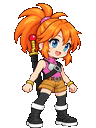
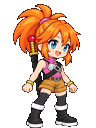
art(player): stabilize idle and run proportions and redraw blink

Changed region(s): [[0.125, 0.0, 0.8438, 0.4062], [0.2188, 0.1875, 0.25, 0.2188]]

diff --git a/tools/art/build_player_movement_atlas.py b/tools/art/build_player_movement_atlas.py
@@ -8,6 +8,7 @@ from pathlib import Path
 import json
 from PIL import Image, ImageDraw
 from pack_atlas import pack
+from build_player_idle_run_revision import build as build_idle_run
 
 ROOT = Path(__file__).resolve().parents[2]
 PREVIEW = ROOT / 'art/previews/phase_b'
@@ -57,15 +58,16 @@ def anchor(source, size, scale=1.0):
 
 
 def build():
+    build_idle_run()
     DEST.mkdir(parents=True, exist_ok=True)
     REVIEW.mkdir(parents=True, exist_ok=True)
     result = {}
-    folders = {'idle':'2026-10-24_aclaire_idle', 'run':'2026-10-24_aclaire_run_v4_redraw',
+    folders = {'idle':'2026-10-24_idle_run_revision/idle', 'run':'2026-10-24_idle_run_revision/run',
                'jump_up':'2026-10-24_aclaire_jump_up_v4_study'}
     for anim, folder in folders.items():
         for i, path in enumerate(sorted((PREVIEW/folder).glob('*.png'))):
             source = Image.open(path).convert('RGBA')
-            if anim == 'idle':
+            if anim in ('idle', 'run'):
                 frame = indexed(source)
             else:
                 frame = anchor(source, (128 if anim == 'run' else 96, 128), .94 if anim == 'jump_up' else 1)
@@ -83,6 +85,23 @@ def build():
                          'opaque_colors':len({p[:3] for p in frame.get_flattened_data() if p[3]}),
                          'sole_row':frame.getbbox()[3]-1}
     assert len(result) == 18
+    revision = PREVIEW / '2026-10-24_idle_run_revision'
+    blink_board = Image.new('RGBA', (576, 292), '#2b2440')
+    pen = ImageDraw.Draw(blink_board)
+    blink_samples = [result['idle_000'], Image.open(PREVIEW/'2026-10-24_aclaire_idle/04.png').convert('RGBA'), result['idle_003']]
+    for i, (sample, label) in enumerate(zip(blink_samples, ('V4 open', 'Previous blink', 'Revised blink'))):
+        blink_board.alpha_composite(sample.resize((192,256), Image.Resampling.NEAREST), (i*192,8))
+        pen.text((i*192+32,276),label,fill='#f2efe6')
+    blink_board.save(revision/'blink_comparison.png')
+    transition = []
+    for anim, repeats in [('idle',2),('run',3),('idle',2)]:
+        for _ in range(repeats):
+            for i in range(ANIMS[anim][0]):
+                frame = result[f'{anim}_{i:03}']
+                canvas = Image.new('RGBA', (128,128), '#2b2440')
+                canvas.alpha_composite(frame, ((128-frame.width)//2,0))
+                transition.append(canvas.resize((256,256),Image.Resampling.NEAREST))
+    transition[0].save(revision/'idle_run_transition.png',save_all=True,append_images=transition[1:],duration=125,loop=0,disposal=2,blend=0)
     for anim, (count, fps, repeat) in ANIMS.items():
         frames = [result[f'{anim}_{i:03}'] for i in range(count)]
         frames[0].save(REVIEW/f'{anim}_motion.png',save_all=True,append_images=frames[1:],

diff --git a/tools/art/build_player_idle_run_revision.py b/tools/art/build_player_idle_run_revision.py
@@ -1,0 +1,53 @@
+"""Pixel-preserving V4 head rig and calm, planted breathing revision.
+
+Original approved studies remain untouched. Reuse the approved head at 1:1
+instead of fitting the entire run silhouette separately for every pose.
+"""
+from pathlib import Path
+from PIL import Image, ImageDraw
+
+ROOT = Path(__file__).resolve().parents[2]
+OUT = ROOT / 'art/previews/phase_b/2026-10-24_idle_run_revision'
+SEED = ROOT / 'art/previews/phase_a/2026-10-23_aclaire_seed_v4_256color_density2.png'
+
+
+def build():
+    seed = Image.open(SEED).convert('RGBA')
+    blink_source = Image.open(ROOT / 'art/concept/2026-10-24_aclaire_blink_revision_source.png').convert('RGBA')
+    bounds = blink_source.getchannel('A').point(lambda a: 255 if a >= 128 else 0).getbbox()
+    aligned_blink = Image.new('RGBA', seed.size)
+    aligned_blink.alpha_composite(blink_source.crop(bounds).resize((68, 124), Image.Resampling.NEAREST), (13, 4))
+    # Bring across only the generated eyelids. Head, eyebrows, mouth and hair
+    # retain the approved seed pixels; no whole-face redraw drift.
+    eye_mask = Image.new('L', seed.size)
+    draw = ImageDraw.Draw(eye_mask)
+    draw.polygon([(47, 41), (54, 40), (58, 43), (58, 50), (54, 52), (47, 51), (46, 46)], fill=255)
+    draw.polygon([(62, 44), (67, 43), (70, 46), (70, 52), (66, 54), (61, 52), (60, 48)], fill=255)
+    blink_seed = seed.copy()
+    blink_seed.paste(aligned_blink, (0, 0), eye_mask)
+    for anim in ('idle', 'run'):
+        (OUT / anim).mkdir(parents=True, exist_ok=True)
+    # One smooth inhale/exhale cycle: upper body moves together, no x sway,
+    # no isolated head deformation, and the feet never move.
+    for i, offset in enumerate((0, 0, 1, 1, 1, 0)):
+        pose = blink_seed if i == 3 else seed
+        frame = pose.copy()
+        if offset:
+            frame = Image.new('RGBA', seed.size)
+            frame.paste(pose.crop((0, 0, 96, 90)), (0, 1))
+            frame.paste(pose.crop((0, 91, 96, 128)), (0, 91))
+        frame.save(OUT / 'idle' / f'{i+1:02}.png')
+    head = seed.crop((0, 0, 96, 62))
+    for i in range(4):
+        original = Image.open(ROOT / f'art/previews/phase_b/2026-10-24_aclaire_run_v4_redraw/{i+1:02}.png').convert('RGBA')
+        # Shared torso/leg transform, rather than a per-frame fit. Keep the
+        # established alternating leg poses and soles at row 127.
+        body = original.crop((0, 50, 128, 126)).resize((128, 66), Image.Resampling.NEAREST)
+        frame = Image.new('RGBA', (128, 128))
+        frame.alpha_composite(body, (0, 62))
+        frame.alpha_composite(head, (16, 0))
+        frame.save(OUT / 'run' / f'{i+1:02}.png')
+
+
+if __name__ == '__main__':
+    build()

diff --git a/tools/art/test_player_atlas.py b/tools/art/test_player_atlas.py
@@ -8,6 +8,24 @@ ROOT = Path(__file__).resolve().parents[2]
 
 
 class MovementPacketTests(unittest.TestCase):
+    def test_idle_run_face_scale_and_idle_horizontal_stability(self):
+        def eyes(name):
+            frame = Image.open(ROOT/f'art/frames/player/{name}.png').convert('RGBA')
+            points = [(x,y) for y in range(65) for x in range(frame.width)
+                      if (lambda p: p[3] and p[2] > p[0]+25 and p[2] > p[1]+8)(frame.getpixel((x,y)))]
+            return (min(x for x,y in points), min(y for x,y in points),
+                    max(x for x,y in points), max(y for x,y in points))
+        base = eyes('idle_000')
+        for i in (1,2,4,5):
+            box = eyes(f'idle_{i:03}')
+            self.assertEqual((base[0],base[2]), (box[0],box[2]))
+            self.assertLessEqual(abs(box[1]-base[1]), 1)
+            self.assertEqual(base[3]-base[1], box[3]-box[1])
+        for i in range(4):
+            box = eyes(f'run_{i:03}')
+            self.assertEqual((base[2]-base[0],base[3]-base[1]),
+                             (box[2]-box[0],box[3]-box[1]))
+
     def test_roundtrip_coverage_and_baseline(self):
         data=json.loads((ROOT/'public/assets/sprites/player/player.json').read_text())
         atlas=Image.open(ROOT/'public/assets/sprites/player/player.png').convert('RGBA')

diff --git a/art/reports/phase_b.md b/art/reports/phase_b.md
@@ -1,5 +1,16 @@
 # Phase B — first production movement atlas, 2026-10-24
 
+## Review correction — idle motion, run proportions and idle_003 blink
+
+Pinz reported head-only jitter in idle, a smaller head on entering run, and an unnatural blink. The previous idle builder applied row-weighted one-pixel offsets to the upper silhouette. Run studies independently fitted each full pose to a target height, so foot alignment alone did not ensure matching head proportions.
+
+- Added `tools/art/build_player_idle_run_revision.py`. Idle now moves the entire upper body together vertically by one physical pixel, with fixed horizontal position and fixed feet. Six frames and 8fps remain unchanged.
+- Run reuses the approved V4 head pixels at the same scale as idle, across all four poses. A shared lower-body transform retains the alternating leg keys and the last-row sole anchor. The head/ponytail is intentionally stable in this correction; this is not a new hair-sway pass.
+- Redrew the closed eyes for `idle_003` using built-in imagegen, then composited only the eye regions into the approved face and quantized to the existing palette. Mouth, head outline and hair remain from V4. Source: `art/concept/2026-10-24_aclaire_blink_revision_source.png`.
+- New versioned studies, before/after blink comparison and an idle/run transition APNG are in `art/previews/phase_b/2026-10-24_idle_run_revision/`. Earlier approved study folders are untouched. Production frames and atlas incorporate the requested correction.
+- Verification: asset validator PASS; 11 art tests PASS, including fixed idle horizontal eye position and matching idle/run eye dimensions. All soles remain on row 127. Browser review loads the real atlas at scale 0.5; level 1-1 was checked for movement and grounded return. Combat knockback occurred during a run sample, so that airborne screenshot is not evidence of a floor-anchor defect. Visual acceptance remains Pinz's decision.
+- No changes to game code, manifests/config, protected references or handoff specification. Existing integration notes below still apply. Phase C remains paused for style approval.
+
 This delivery follows merged PR #5 and is based on main `6a78a06` (including Claude's player V4 integration, PR #6). It supersedes earlier status notes below. Full Phase B is not complete.
 
 ## 1. Files delivered

diff --git a/art/reports/2026-10-24_production_generation_prompts.md b/art/reports/2026-10-24_production_generation_prompts.md
@@ -3,6 +3,16 @@
 Tool: built-in `image_gen`, transparent_background=true. No CLI/API fallback.
 Normalization/atlas packing uses the project's Python + Pillow art workflow.
 
+## Blink correction
+
+Reference: `art/previews/phase_a/2026-10-23_aclaire_seed_v4_256color_density2.png`.
+Output: `art/concept/2026-10-24_aclaire_blink_revision_source.png`.
+Only the aligned eye regions are composited into the original seed, not the generated full body.
+
+Prompt:
+
+> Edit this exact pixel sprite with a tiny localized edit: change ONLY her two blue open eyes into natural softly closed eyelids for a single blink animation frame. Preserve everything else exactly: same canvas aspect ratio 96:128, same character position, same scale and pixel grid, same orange hair, head silhouette, bangs, eyebrows, nose, open smiling mouth, costume, body and feet. The eyes should be closed relaxed shallow curves following the existing eye perspective, delicate dark brown one-pixel eyelash contours, smooth natural skin around them, no large black triangles, no harsh thick zigzags, no squinting or angry expression, no extra eyelashes. High fidelity localized edit; do not redraw or resize the character. Transparent background. One single full-body sprite, no labels.
+
 ## Movement sheet
 
 References, in order: approved V4 idle PNG; approved jump-up V4 key PNG; owner `aclaire_character_sheet_v2.png`.
